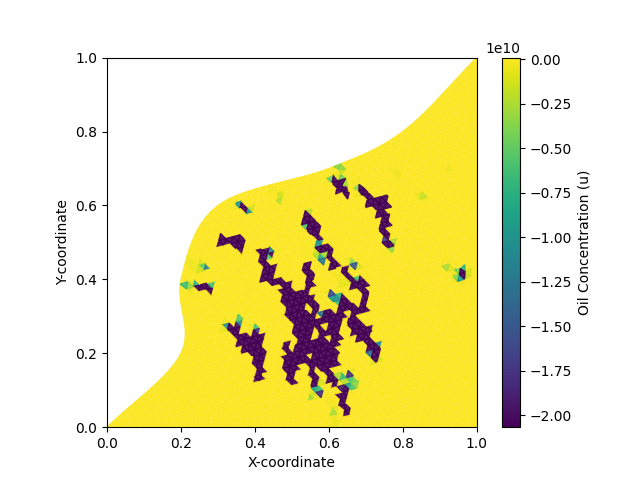
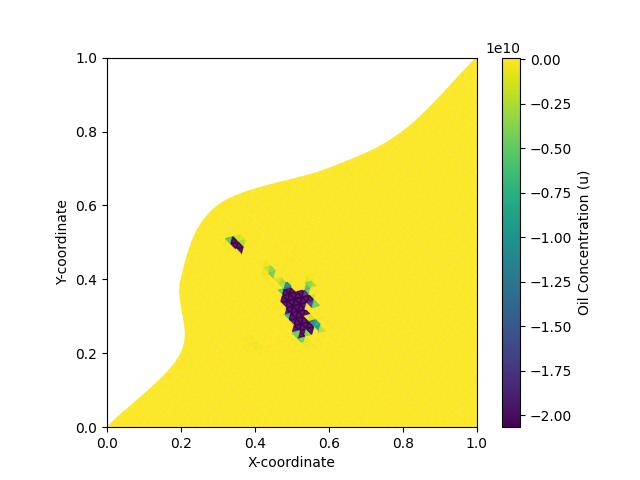
minor fixes, initial oil might be the problem, or midpoint

diff --git a/msh_classes.py b/msh_classes.py
@@ -155,7 +155,7 @@ class Triangle(Cell): #triangle class, parent class: cell
         x1, y1 = self._midpoint
         vector = np.array([x1-x, y1-y])
         norm = np.linalg.norm(vector)
-        self._u = np.exp(-(norm**2/0.01))
+        self._u = np.exp(-1*(norm**2/0.01))
     
     def v(self):
         x, y = self._midpoint 

diff --git a/main.py b/main.py
@@ -24,7 +24,7 @@ if __name__ == "__main__":
 # Iterate through time steps and plot the mesh
 for timestep in range(20):
     # Update oil distribution
-    mesh.update_oil(delta_t=0.01)
+    mesh.update_oil(delta_t=0.003)
 
     # Create the plot
     plt.figure()
